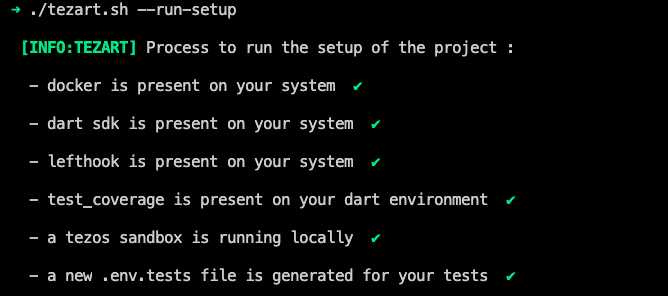
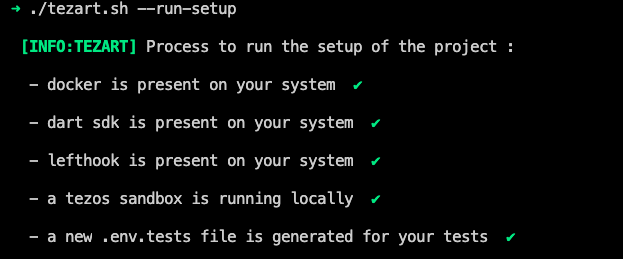
setup coverage

diff --git a/README.md b/README.md
@@ -1,19 +1,23 @@
 <table style="width:100%">
   <tr>
     <th>License</th>
-    <th>Github Action</th>
-    <th>Code Coverage</th>
+    <th>Github Action - Tests</th>
     <th>Coverage with codecov.io</th>
   </tr>
   <tr>
     <td>
-        <img src="https://img.shields.io/static/v1?label=License&message=MIT&color=blue"/>
+        <a href="https://github.com/moneytrackio/tezart/blob/main/LICENSE" target="_blank">
+           <img src="https://img.shields.io/static/v1?label=License&message=MIT&color=blue"/>
+        </a>
     </td>
     <td>
+        <a href="https://github.com/moneytrackio/tezart/actions?query=workflow%3A%22Run+tests%22" target="_blank">
+            <img src="https://github.com/moneytrackio/tezart/workflows/Run%20tests/badge.svg"/>
+        </a>
     </td>
-    <td>
-    </td>
-    <td>
+        <a href="https://codecov.io/gh/moneytrackio/tezart">
+            <img src="https://codecov.io/gh/moneytrackio/tezart/branch/main/graph/badge.svg?token=0BOIGV5QCT"/>
+        </a>
     </td>
   </tr>
 </table>
@@ -46,7 +50,6 @@ To ensure that you can contribute to this project, you will need to setup your e
 - [dart sdk for package development](https://dart.dev/get-dart)
 - [docker for local testing](https://docs.docker.com/get-docker/)
 - [lefthook to our git hooks](https://github.com/Arkweid/lefthook)
-- [test_coverage for our code coverage](https://pub.dev/packages/test_coverage)
 
 #### A. Dart SDK for Package development
 
